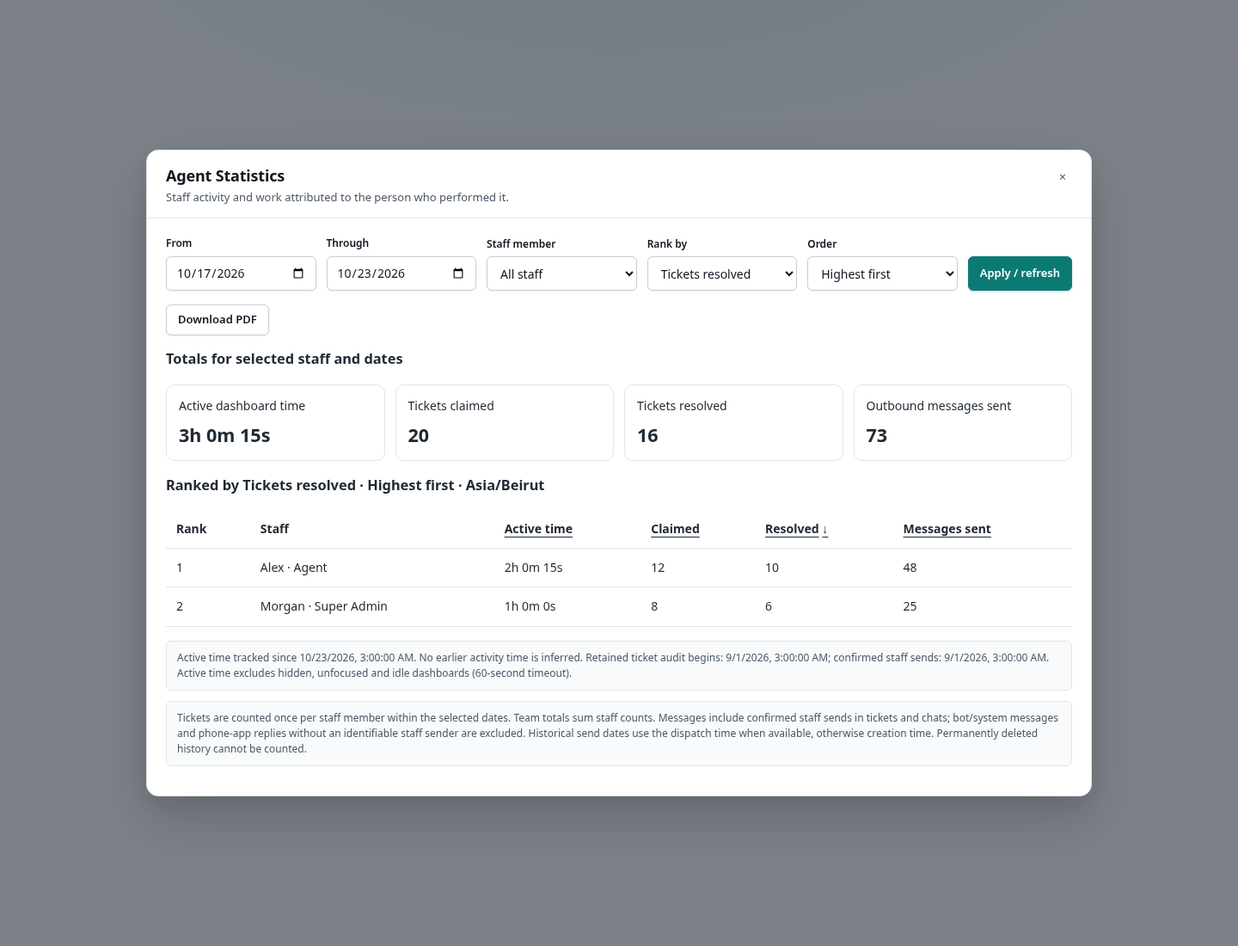
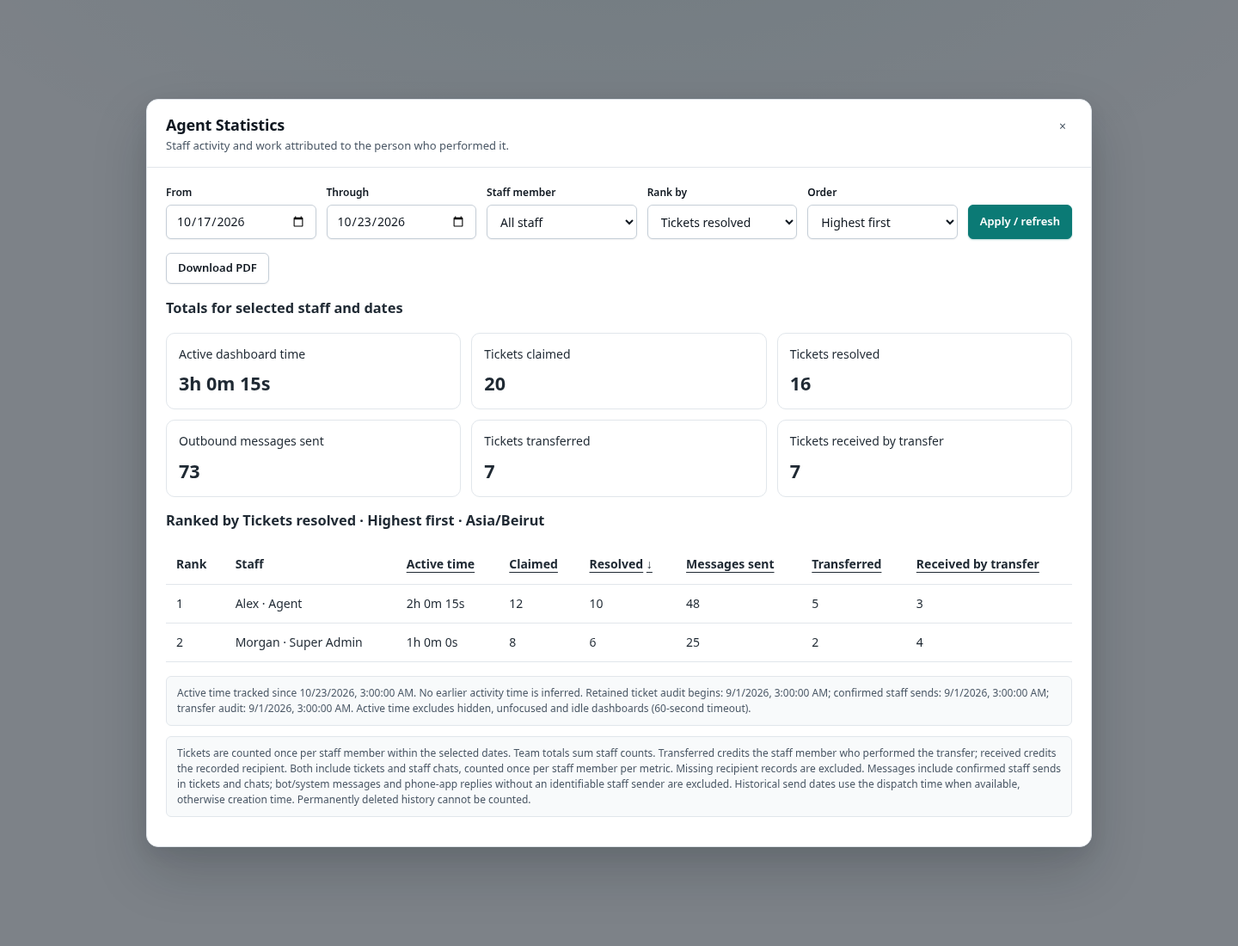
Add ticket transfer metrics to agent statistics

diff --git a/app/templates/support.html b/app/templates/support.html
@@ -734,7 +734,7 @@ __SUPPORT_STYLE__
         <div class="field"><label for="statisticsStart">From</label><input type="date" id="statisticsStart" required></div>
         <div class="field"><label for="statisticsEnd">Through</label><input type="date" id="statisticsEnd" required></div>
         <div class="field"><label for="statisticsAgent">Staff member</label><select id="statisticsAgent"><option value="">All staff</option></select></div>
-        <div class="field"><label for="statisticsMetric">Rank by</label><select id="statisticsMetric"><option value="tickets_resolved">Tickets resolved</option><option value="tickets_claimed">Tickets claimed</option><option value="messages_sent">Outbound messages sent</option><option value="active_seconds">Active dashboard time</option></select></div>
+        <div class="field"><label for="statisticsMetric">Rank by</label><select id="statisticsMetric"><option value="tickets_resolved">Tickets resolved</option><option value="tickets_claimed">Tickets claimed</option><option value="messages_sent">Outbound messages sent</option><option value="active_seconds">Active dashboard time</option><option value="tickets_transferred">Tickets transferred</option><option value="tickets_received_by_transfer">Tickets received by transfer</option></select></div>
         <div class="field"><label for="statisticsDirection">Order</label><select id="statisticsDirection"><option value="desc">Highest first</option><option value="asc">Lowest first</option></select></div>
         <button class="btn primary" type="submit">Apply / refresh</button>
       </form>
@@ -747,9 +747,11 @@ __SUPPORT_STYLE__
         <th scope="col" data-metric="tickets_claimed"><button type="button" data-metric="tickets_claimed">Claimed</button></th>
         <th scope="col" data-metric="tickets_resolved"><button type="button" data-metric="tickets_resolved">Resolved</button></th>
         <th scope="col" data-metric="messages_sent"><button type="button" data-metric="messages_sent">Messages sent</button></th>
+        <th scope="col" data-metric="tickets_transferred"><button type="button" data-metric="tickets_transferred">Transferred</button></th>
+        <th scope="col" data-metric="tickets_received_by_transfer"><button type="button" data-metric="tickets_received_by_transfer">Received by transfer</button></th>
       </tr></thead><tbody id="statisticsRows"></tbody></table></div>
       <p class="form-note" id="statisticsCoverage"></p>
-      <p class="form-note">Tickets are counted once per staff member within the selected dates. Team totals sum staff counts. Messages include confirmed staff sends in tickets and chats; bot/system messages and phone-app replies without an identifiable staff sender are excluded. Historical send dates use the dispatch time when available, otherwise creation time. Permanently deleted history cannot be counted.</p>
+      <p class="form-note">Tickets are counted once per staff member within the selected dates. Team totals sum staff counts. Transferred credits the staff member who performed the transfer; received credits the recorded recipient. Both include tickets and staff chats, counted once per staff member per metric. Missing recipient records are excluded. Messages include confirmed staff sends in tickets and chats; bot/system messages and phone-app replies without an identifiable staff sender are excluded. Historical send dates use the dispatch time when available, otherwise creation time. Permanently deleted history cannot be counted.</p>
     </div>
   </div>
 </section>

diff --git a/app/static/support/statistics.js b/app/static/support/statistics.js
@@ -1,6 +1,7 @@
 const statisticsMetrics = {
   active_seconds: 'Active dashboard time', tickets_claimed: 'Tickets claimed',
   tickets_resolved: 'Tickets resolved', messages_sent: 'Outbound messages sent',
+  tickets_transferred: 'Tickets transferred', tickets_received_by_transfer: 'Tickets received by transfer',
 };
 let statisticsRequest = 0;
 let statisticsAppliedQuery = null;
@@ -46,7 +47,7 @@ function renderAgentStatistics(report) {
     $('statisticsRows').append(tr);
   }
   const since = value => value ? new Date(value).toLocaleString(undefined, {timeZone: report.timezone}) : 'no retained records';
-  $('statisticsCoverage').textContent = 'Active time tracked since ' + since(report.activity_tracking_started_at) + '. No earlier activity time is inferred. Retained ticket audit begins: ' + since(report.ticket_history_since) + '; confirmed staff sends: ' + since(report.message_history_since) + '. Active time excludes hidden, unfocused and idle dashboards (60-second timeout).';
+  $('statisticsCoverage').textContent = 'Active time tracked since ' + since(report.activity_tracking_started_at) + '. No earlier activity time is inferred. Retained ticket audit begins: ' + since(report.ticket_history_since) + '; confirmed staff sends: ' + since(report.message_history_since) + '; transfer audit: ' + since(report.transfer_history_since) + '. Active time excludes hidden, unfocused and idle dashboards (60-second timeout).';
 }
 async function loadAgentStatistics() {
   if (!canViewAgentStatistics()) { clearAgentStatistics(); return; }

diff --git a/app/static/support/support.css b/app/static/support/support.css
@@ -1435,7 +1435,7 @@ body.column-resizing * { cursor: col-resize !important; }
 .statistics-filters{display:flex;flex-wrap:wrap;gap:12px;align-items:end;margin-bottom:16px}
 .statistics-filters .field{flex:1;min-width:140px;margin:0}
 .statistics-filters input,.statistics-filters select,.statistics-filters>.btn{min-height:40px}
-.statistics-totals{display:grid;grid-template-columns:repeat(auto-fit,minmax(170px,1fr));gap:12px;margin:16px 0}
+.statistics-totals{display:grid;grid-template-columns:repeat(3,minmax(0,1fr));gap:12px;margin:16px 0}
 .statistics-totals>div{border:1px solid var(--border);border-radius:10px;padding:14px;display:flex;flex-direction:column;gap:8px}
 .statistics-totals strong{font-size:1.35rem}
 .statistics-table-wrap{overflow:auto;margin:16px 0}
@@ -1448,3 +1448,5 @@ body.column-resizing * { cursor: col-resize !important; }
 .composer-shell{position:relative}
 .composer-drop-hint{display:none;position:absolute;inset:0;z-index:5;align-items:center;justify-content:center;border:2px dashed var(--primary);border-radius:var(--radius-sm);background:var(--surface);color:var(--primary-text);font-weight:600;pointer-events:none}
 .composer-shell.drag-active .composer-drop-hint{display:flex}
+
+@media (max-width:700px){.statistics-totals{grid-template-columns:repeat(2,minmax(0,1fr))}}

diff --git a/tests/integration/test_agent_statistics.py b/tests/integration/test_agent_statistics.py
@@ -150,9 +150,9 @@ async def test_actor_attribution_confirmation_range_filters_and_rankings(infrast
         reverse = await tracker.report(BASE,BASE+timedelta(days=1),None,metric,False)
         assert reverse['rows'][-1]['id'] == winner
         assert report['rank_by'] == metric
-        assert report['totals'] == dict(active_seconds=45, tickets_claimed=3, tickets_resolved=3, messages_sent=3)
+        assert report['totals'] == dict(active_seconds=45, tickets_claimed=3, tickets_resolved=3, messages_sent=3,tickets_transferred=0,tickets_received_by_transfer=0)
     report = await tracker.report(BASE,BASE+timedelta(days=1),7,'tickets_resolved',True)
-    assert report['totals'] == dict(active_seconds=15,tickets_claimed=2,tickets_resolved=1,messages_sent=2)
+    assert report['totals'] == dict(active_seconds=15,tickets_claimed=2,tickets_resolved=1,messages_sent=2,tickets_transferred=0,tickets_received_by_transfer=0)
     assert len(report['rows']) == 1
     empty = await tracker.report(BASE-timedelta(days=60), BASE-timedelta(days=59),None,'tickets_claimed',True)
     assert [r['rank'] for r in empty['rows']] == [1,1]
@@ -215,3 +215,88 @@ async def test_statistics_migration_repeatable_and_legacy_send_date(infrastructu
     report = await stats.StatisticsRepository(repo).report(BASE,BASE+timedelta(days=1),7,'messages_sent',True)
     assert report['totals']['messages_sent'] == 1
     assert report['message_history_since'] == BASE.isoformat()+'Z'
+
+
+@pytest.mark.asyncio
+async def test_transfer_metrics_use_actor_and_recorded_recipient_with_unique_tickets(infrastructure):
+    import json
+    repo, sql, _ = infrastructure
+    await sql("""INSERT INTO staff(id,name,email,email_normalized,password_hash,role,is_active,created_at,updated_at)
+        VALUES (9,'Recipient','c@example.test','c@example.test','unused','agent',1,UTC_TIMESTAMP(6),UTC_TIMESTAMP(6))""")
+    # Manager 8 performs the transfer, although staff 7 owned the ticket.
+    await repo.transfer_ticket(42,actor_id='8',actor_name='Other',target_staff_id=9,expected_assignee_id='7')
+    await sql("UPDATE support_ticket_events SET created_at=%s WHERE event_type='TICKET_TRANSFERRED'",(BASE,))
+    for ticket,actor,recipient,stamp in [
+        (42,'8','9',BASE),  # repeat: same actor and recipient ticket count only once
+        (43,'8',7,BASE),    # numeric JSON ID also supported
+        (41,'7','9',BASE),
+        (43,'7','8',BASE-timedelta(seconds=1)),
+        (42,'7','9',BASE+timedelta(days=1)),  # exclusive end
+        (43,'999','9',BASE), # deleted actor does not erase recipient's credit
+    ]:
+        await sql("""INSERT INTO support_ticket_events(ticket_id,event_type,actor_type,actor_id,details_json,created_at)
+            VALUES (%s,'TICKET_TRANSFERRED','AGENT',%s,%s,%s)""",
+            (ticket,actor,json.dumps({'from_agent_id':'7','to_agent_id':recipient}),stamp))
+    for details in ['not-json','{}','null','{"to_agent_id":"9junk"}']:
+        await sql("""INSERT INTO support_ticket_events(ticket_id,event_type,actor_type,actor_id,details_json,created_at)
+            VALUES (43,'TICKET_TRANSFERRED','AGENT','8',%s,%s)""",(details,BASE))
+    await sql("""INSERT INTO support_ticket_events(ticket_id,event_type,actor_type,actor_id,details_json,created_at)
+        VALUES (41,'TICKET_TRANSFERRED','SYSTEM','8','{"to_agent_id":"8"}',%s)""",(BASE,))
+    await sql("UPDATE support_tickets SET current_assignee_id='8',conversation_origin='STAFF'")
+    tracker=stats.StatisticsRepository(repo)
+    report=await tracker.report(BASE,BASE+timedelta(days=1),None,'tickets_transferred',True)
+    assert [r['id'] for r in report['rows']]==[8,7,9]
+    rows={r['id']:r for r in report['rows']}
+    assert [rows[i]['tickets_transferred'] for i in (7,8,9)]==[1,2,0]
+    assert [rows[i]['tickets_received_by_transfer'] for i in (7,8,9)]==[1,0,3]
+    assert report['totals']['tickets_transferred']==3
+    assert report['totals']['tickets_received_by_transfer']==4
+    assert report['transfer_history_since']==(BASE-timedelta(seconds=1)).isoformat()+'Z'
+    received=await tracker.report(BASE,BASE+timedelta(days=1),None,'tickets_received_by_transfer',True)
+    assert [r['id'] for r in received['rows']]==[9,7,8]
+    ascending=await tracker.report(BASE,BASE+timedelta(days=1),None,'tickets_received_by_transfer',False)
+    assert [r['id'] for r in ascending['rows']]==[8,7,9]
+    filtered=await tracker.report(BASE,BASE+timedelta(days=1),9,'tickets_received_by_transfer',True)
+    assert filtered['totals']['tickets_received_by_transfer']==3 and filtered['totals']['tickets_transferred']==0
+    await sql('UPDATE staff SET is_active=0 WHERE id=9')
+    assert (await tracker.report(BASE,BASE+timedelta(days=1),9,'tickets_received_by_transfer',True))['totals']['tickets_received_by_transfer']==3
+    await sql('UPDATE staff SET deleted_at=UTC_TIMESTAMP(6) WHERE id=9')
+    assert (await tracker.report(BASE,BASE+timedelta(days=1),None,'tickets_received_by_transfer',True))['totals']['tickets_received_by_transfer']==1
+
+
+@pytest.mark.asyncio
+@pytest.mark.parametrize('metric',['tickets_transferred','tickets_received_by_transfer'])
+async def test_transfer_metrics_api_and_pdf_permissions(infrastructure,monkeypatch,metric):
+    from io import BytesIO
+    from pypdf import PdfReader
+    import app.support_auth as auth
+    from app.config import settings
+    from app.support_api import router
+    repo, sql, _=infrastructure
+    await sessions(sql)
+    monkeypatch.setattr(stats,'statistics_repository',stats.StatisticsRepository(repo))
+    monkeypatch.setattr(auth,'_schedule_session_touch',lambda _:None)
+    await sql("""INSERT INTO support_ticket_events(ticket_id,event_type,actor_type,actor_id,details_json,created_at)
+        VALUES (42,'TICKET_TRANSFERRED','AGENT','7','{"to_agent_id":"8"}',%s)""",(BASE,))
+    app=FastAPI();app.include_router(router)
+    transport=httpx.MockTransport(httpx.ASGITransport(app=app).handle_async_request)
+    query=f'?start=2026-10-23&end=2026-10-23&timezone_name=UTC&rank_by={metric}'
+    async with httpx.AsyncClient(transport=transport,base_url='http://test') as client:
+        for suffix in ['', '/pdf']:
+            path='/api/support/statistics'+suffix+query
+            client.cookies.clear()
+            assert (await client.get(path)).status_code==401
+            client.cookies.set(settings.support_cookie_name,'token-1')
+            assert (await client.get(path)).status_code==403
+            client.cookies.set(settings.support_cookie_name,'token-3')
+            response=await client.get(path)
+            assert response.status_code==200,response.text
+            if suffix:
+                text=' '.join(' '.join(page.extract_text() for page in PdfReader(BytesIO(response.content)).pages).split())
+                label='Tickets transferred' if metric=='tickets_transferred' else 'Tickets received by transfer'
+                assert f'Ranked by {label}' in text
+            else:
+                report=response.json()
+                assert report['rank_by']==metric
+                assert report['rows'][0]['id']==(7 if metric=='tickets_transferred' else 8)
+                assert report['totals']['tickets_transferred']==report['totals']['tickets_received_by_transfer']==1

diff --git a/app/support_statistics.py b/app/support_statistics.py
@@ -14,7 +14,7 @@ from app.support_repository import support_repository
 router = APIRouter(prefix="/statistics", tags=["support-statistics"])
 IDLE_SECONDS = 60
 MAX_GAP_SECONDS = 45
-METRICS = ("active_seconds", "tickets_claimed", "tickets_resolved", "messages_sent")
+METRICS = ("active_seconds", "tickets_claimed", "tickets_resolved", "messages_sent", "tickets_transferred", "tickets_received_by_transfer")
 
 
 def date_bounds(start: date, end: date, zone: str):
@@ -128,13 +128,26 @@ class StatisticsRepository:
                     optional = " AND actor_id=%s" if staff_id is not None else ""
                     args = (start, end, str(staff_id)) if staff_id is not None else (start, end)
                     await cur.execute(f"""SELECT actor_id,event_type,COUNT(DISTINCT ticket_id) AS count
-                        FROM support_ticket_events WHERE event_type IN ('TICKET_CLAIMED','TICKET_RESOLVED')
+                        FROM support_ticket_events WHERE event_type IN ('TICKET_CLAIMED','TICKET_RESOLVED','TICKET_TRANSFERRED')
                         AND actor_type='AGENT' AND created_at>=%s AND created_at<%s {optional}
                         GROUP BY actor_id,event_type""", args)
                     for event in await cur.fetchall():
                         if event["actor_id"] in rows:
-                            metric = "tickets_claimed" if event["event_type"] == "TICKET_CLAIMED" else "tickets_resolved"
+                            metric = {"TICKET_CLAIMED": "tickets_claimed", "TICKET_RESOLVED": "tickets_resolved",
+                                      "TICKET_TRANSFERRED": "tickets_transferred"}[event["event_type"]]
                             rows[event["actor_id"]][metric] = event["count"]
+                    # The recipient is recorded in the transfer event, not the current
+                    # assignee. Invalid/missing legacy details must never invent credit.
+                    await cur.execute("""SELECT recipient_id,COUNT(DISTINCT ticket_id) AS count
+                        FROM (SELECT ticket_id,JSON_UNQUOTE(JSON_EXTRACT(
+                            CASE WHEN JSON_VALID(details_json) THEN details_json ELSE '{}' END,
+                            '$.to_agent_id')) AS recipient_id
+                          FROM support_ticket_events WHERE event_type='TICKET_TRANSFERRED'
+                          AND actor_type='AGENT' AND created_at>=%s AND created_at<%s) transfers
+                        GROUP BY recipient_id""", (start, end))
+                    for transfer in await cur.fetchall():
+                        if transfer["recipient_id"] in rows:
+                            rows[transfer["recipient_id"]]["tickets_received_by_transfer"] = transfer["count"]
                     optional = " AND sender_id=%s" if staff_id is not None else ""
                     await cur.execute(f"""SELECT sender_id,COUNT(*) AS count FROM support_ticket_messages
                         WHERE sender_type='AGENT' AND direction='OUTBOUND' AND send_status='SENT'
@@ -164,6 +177,9 @@ class StatisticsRepository:
                         WHERE sender_type='AGENT' AND direction='OUTBOUND' AND send_status='SENT'
                         AND sender_id IS NOT NULL AND whatsapp_message_id IS NOT NULL""")
                     messages_since = (await cur.fetchone())["since"]
+                    await cur.execute("""SELECT MIN(created_at) AS since FROM support_ticket_events
+                        WHERE event_type='TICKET_TRANSFERRED' AND actor_type='AGENT'""")
+                    transfers_since = (await cur.fetchone())["since"]
                 await conn.commit()
             except BaseException:
                 await conn.rollback()
@@ -178,7 +194,7 @@ class StatisticsRepository:
         return {"agents": agents, "rows": ordered, "totals": {m: round(sum(r[m] for r in ordered), 3) for m in METRICS},
                 "rank_by": rank_by, "direction": "desc" if descending else "asc",
                 "activity_tracking_started_at": stamp(tracking), "ticket_history_since": stamp(tickets_since),
-                "message_history_since": stamp(messages_since), "idle_timeout_seconds": IDLE_SECONDS}
+                "message_history_since": stamp(messages_since), "transfer_history_since": stamp(transfers_since), "idle_timeout_seconds": IDLE_SECONDS}
 
 
 statistics_repository = StatisticsRepository()
@@ -196,7 +212,7 @@ async def activity_heartbeat(pulse: ActivityHeartbeat, agent: SupportAgent = Dep
 async def agent_statistics(
     start: date, end: date, timezone_name: str = "Asia/Beirut",
     agent_id: int | None = Query(default=None, ge=1),
-    rank_by: Literal["active_seconds", "tickets_claimed", "tickets_resolved", "messages_sent"] = "tickets_resolved",
+    rank_by: Literal["active_seconds", "tickets_claimed", "tickets_resolved", "messages_sent", "tickets_transferred", "tickets_received_by_transfer"] = "tickets_resolved",
     direction: Literal["asc", "desc"] = "desc",
     agent: SupportAgent = Depends(get_current_agent),
 ):

diff --git a/tests/test_agent_statistics.py b/tests/test_agent_statistics.py
@@ -73,11 +73,11 @@ HTMLAnchorElement.prototype.click=function(){downloads.push(this.download)};
 async function fetch(path){exports.push(path);return {ok:true,blob:async()=>new Blob(['%PDF-test'])};}
 
 const report={agents:[{id:7,name:'Alex',role:'agent',is_active:1},{id:8,name:'Morgan',role:'supervisor',is_active:1}],
-rows:[{id:7,name:'Alex',role:'agent',is_active:1,rank:1,active_seconds:7215,tickets_claimed:12,tickets_resolved:10,messages_sent:48},
-{id:8,name:'Morgan',role:'supervisor',is_active:1,rank:2,active_seconds:3600,tickets_claimed:8,tickets_resolved:6,messages_sent:25}],
-totals:{active_seconds:10815,tickets_claimed:20,tickets_resolved:16,messages_sent:73},
+rows:[{id:7,name:'Alex',role:'agent',is_active:1,rank:1,active_seconds:7215,tickets_claimed:12,tickets_resolved:10,messages_sent:48,tickets_transferred:5,tickets_received_by_transfer:3},
+{id:8,name:'Morgan',role:'supervisor',is_active:1,rank:2,active_seconds:3600,tickets_claimed:8,tickets_resolved:6,messages_sent:25,tickets_transferred:2,tickets_received_by_transfer:4}],
+totals:{active_seconds:10815,tickets_claimed:20,tickets_resolved:16,messages_sent:73,tickets_transferred:7,tickets_received_by_transfer:7},
 rank_by:'tickets_resolved',direction:'desc',timezone:'Asia/Beirut',activity_tracking_started_at:'2026-10-23T00:00:00Z',
-ticket_history_since:'2026-09-01T00:00:00Z',message_history_since:'2026-09-01T00:00:00Z'};
+transfer_history_since:'2026-09-01T00:00:00Z',ticket_history_since:'2026-09-01T00:00:00Z',message_history_since:'2026-09-01T00:00:00Z'};
 let resolvePending=null;
 async function api(path) {
  calls.push(path);
@@ -114,6 +114,14 @@ await Promise.resolve();await Promise.resolve();check(calls.at(-1).includes('ran
 check($('statisticsRanking').textContent.includes('Outbound messages sent'),'selected criterion changed');
 document.querySelector('button[data-metric="messages_sent"]').click();
 await Promise.resolve();await Promise.resolve();check(calls.at(-1).includes('direction=asc'),'reverse sort');
+for (const metric of ['tickets_transferred','tickets_received_by_transfer']) {
+ document.querySelector('button[data-metric="'+metric+'"]').click();
+ await Promise.resolve();await Promise.resolve();
+ check(calls.at(-1).includes('rank_by='+metric),'transfer ranking sent');
+ check($('statisticsRanking').textContent.includes(statisticsMetrics[metric]),'transfer ranking label');
+}
+check($('statisticsRows').firstElementChild.children.length===8,'both transfer columns render');
+check($('statisticsTotals').children.length===6,'both transfer totals render');
 report.rows[0].name='<img src=x onerror="alert(1)">';renderAgentStatistics(report);
 check(!$('statisticsRows').querySelector('img'),'staff names render as text');
 resolvePending='wait';const pending=loadAgentStatistics();
@@ -149,7 +157,7 @@ def test_pdf_export_paginates_includes_filters_and_escapes_staff_names():
     from pypdf import PdfReader
     from app.support_statistics_pdf import statistics_pdf, display_text
     row = dict(id='8', name='Morgan <Admin> & Team', role='supervisor', is_active=True,
-               rank=1, active_seconds=3661, tickets_claimed=12, tickets_resolved=10, messages_sent=30)
+               rank=1, active_seconds=3661, tickets_claimed=12, tickets_resolved=10, messages_sent=30,tickets_transferred=5,tickets_received_by_transfer=3)
     report = dict(start='2026-10-01', end='2026-10-23', timezone='Asia/Beirut', agent_id=8,
                   agents=[row], rows=[{**row, 'rank': i} for i in range(1, 101)], totals=row,
                   rank_by='messages_sent', direction='desc')
@@ -159,8 +167,8 @@ def test_pdf_export_paginates_includes_filters_and_escapes_staff_names():
     assert len(reader.pages) > 1
     for expected in ['Agent Statistics', 'Morgan <Admin> & Team', 'Super Admin',
                      'Outbound messages sent', 'Highest first', '2026-10-01', '2026-10-23',
-                     'Asia/Beirut', '1h 1m 1s', 'Deleted staff are excluded']:
-        assert expected in text
+                     'Asia/Beirut', '1h 1m 1s', 'Deleted staff are excluded', 'Tickets transferred', 'Tickets received by transfer']:
+        assert expected in ' '.join(text.split())
     assert all('Rank' in page.extract_text() for page in reader.pages[:-1])
     assert '&lt;' in display_text('<Admin>')
     assert display_text('محمد') != 'محمد'  # Arabic shaping and visual direction

diff --git a/app/support_statistics_pdf.py b/app/support_statistics_pdf.py
@@ -17,7 +17,7 @@ from app.support_statistics import METRICS
 
 FONT = "SupportDejaVu"
 pdfmetrics.registerFont(TTFont(FONT, str(Path(__file__).parent / "fonts" / "DejaVuSans.ttf")))
-LABELS = ("Active dashboard time", "Tickets claimed", "Tickets resolved", "Outbound messages sent")
+LABELS = ("Active dashboard time", "Tickets claimed", "Tickets resolved", "Outbound messages sent", "Tickets transferred", "Tickets received by transfer")
 ROLES = {"agent": "Agent", "admin": "Admin", "supervisor": "Super Admin"}
 
 
@@ -53,7 +53,7 @@ def statistics_pdf(report: dict) -> bytes:
         if not row["is_active"]:
             name += " (inactive)"
         data.append([p(row["rank"]), p(name), *[p(x) for x in values(row)]])
-    table = Table(data, colWidths=[35, 230, 120, 110, 110, 150], repeatRows=1, hAlign="LEFT")
+    table = Table(data, colWidths=[35, 165, 100, 80, 80, 100, 90, 105], repeatRows=1, hAlign="LEFT")
     table.setStyle(TableStyle([
         ("BACKGROUND", (0, 0), (-1, 0), colors.HexColor("#e6edf5")),
         ("BACKGROUND", (0, 1), (-1, 1), colors.HexColor("#f0f4f8")),
@@ -64,10 +64,13 @@ def statistics_pdf(report: dict) -> bytes:
     story += [table, Spacer(1, 12)]
     for key, label in [("activity_tracking_started_at", "Active time tracking began"),
                        ("ticket_history_since", "Retained ticket audit begins"),
-                       ("message_history_since", "Confirmed staff sends begin")]:
+                       ("message_history_since", "Confirmed staff sends begin"),
+                       ("transfer_history_since", "Retained transfer audit begins")]:
         story.append(p(f'{label}: {report.get(key) or "no retained records"} (UTC).'))
     story.append(p("Active time excludes idle, hidden and unfocused dashboards; no earlier activity is inferred. "
                    "Tickets count once per staff member in the selected dates; totals sum staff counts. "
+                   "Transferred credits the actor, received credits the recorded recipient; both include tickets and staff chats. "
+                   "Missing recipient records are excluded. "
                    "Messages include confirmed staff sends only, excluding bot/system messages and unidentifiable phone-app replies. "
                    "Deleted staff are excluded; retained conversation history is unchanged."))
 

diff --git a/docs/support-platform.md b/docs/support-platform.md
@@ -544,3 +544,23 @@ name. No conversation ownership, permissions, delivery state or message body is
 changed. Persisted names and audit details remain historical snapshots; if a staff
 account has been deleted, those saved names remain the fallback. Customer names
 and replies sent directly from WhatsApp are not relabeled as staff.
+
+### Transfer statistics
+
+Statistics and PDF exports include **Tickets transferred** and **Tickets received
+by transfer**, with date/staff filters, totals and ranking in either direction.
+Both count distinct ticket IDs per staff member within the selected dates; a
+repeated transfer of the same ticket does not inflate that person's metric.
+Staff chats are included, matching the shared ticket lifecycle audit.
+
+Transferred is attributed to `TICKET_TRANSFERRED.actor_id` (the staff member who
+performed the action), even when an Admin/Super Admin transfers someone else's
+work. Received uses the event's `details_json.to_agent_id`, never the ticket's
+current assignee. Missing/invalid recipient details are excluded from received
+counts without losing an identifiable actor's outgoing credit. Deleted staff are
+excluded from rows/totals, but their transfers can still count for an existing
+recipient. Inactive accounts remain reportable. Consequently totals need not match.
+
+These metrics use retained historical events in the local database; the report
+shows when retained transfer audit starts. No migration, new tracking table or
+remote database connection is required. Admin/Super Admin access is unchanged.
